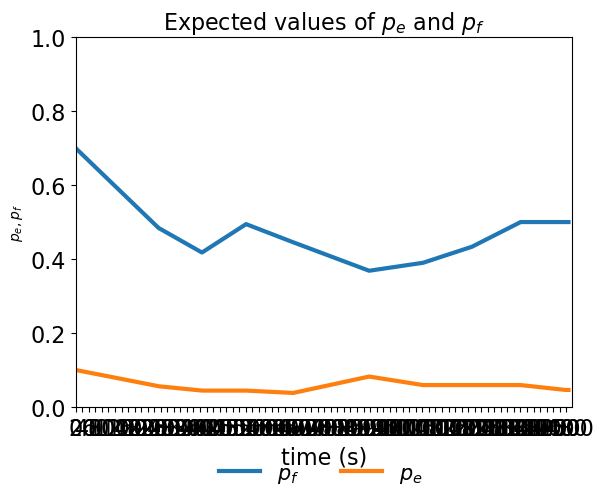
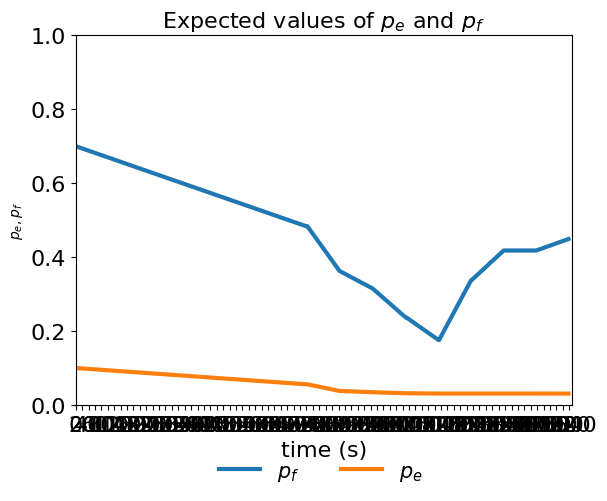
missed data

diff --git a/robot.py b/robot.py
@@ -361,28 +361,28 @@ class Fetch(threading.Thread):
                             self.action(block_col=next_action['color'], place_num=next_action['box'],
                                         place_loc=next_action['workspace'])
                         else:
-                            time.sleep(50)
+                            time.sleep(100)
                         send_done_message = True
                     elif next_action['type'] == 'Assigned_to_Robot':
                         if self.robot_connected:
                             self.action(block_col=next_action['color'], place_num=next_action['box'],
                                         place_loc=next_action['workspace'])
                         else:
-                            time.sleep(50)
+                            time.sleep(100)
                         send_done_message = True
                     elif next_action['type'] == 'Return':
                         if self.robot_connected:
                             self.action(pick_loc=next_action['workspace'] * 10 + next_action['workspace'], place_loc=6,
                                         place_num=1, block_id=next_action['id'])
                         else:
-                            time.sleep(50)
+                            time.sleep(100)
                         send_done_message = True
                     elif next_action['type'] == 'Human_by_Robot':
                         if self.robot_connected:
                             self.action(block_col=next_action['color'], place_num=next_action['box'],
                                         place_loc=next_action['workspace'])
                         else:
-                            time.sleep(50)
+                            time.sleep(100)
                         send_done_message = True
 
                     if send_done_message:

diff --git a/main.py b/main.py
@@ -81,12 +81,12 @@ team_server.start()
 
 
 
-measure = measure.Measure(directory='18285', case_name='task4.pickle')
+measure = measure.Measure(directory='16990', case_name='task3.pickle')
 print('phase1')
 human = human_v2.Human(task=task, team_server=team_server, measure=measure)
 # human.daemon = True
 print('phase2')
-robot = robot.Fetch(sim_env=sim_env, task=task, human=human, team_server=team_server, measure=measure, robot_connected=True)
+robot = robot.Fetch(sim_env=sim_env, task=task, human=human, team_server=team_server, measure=measure, robot_connected=False)
 # robot.daemon = True
 print('phase3')
 
